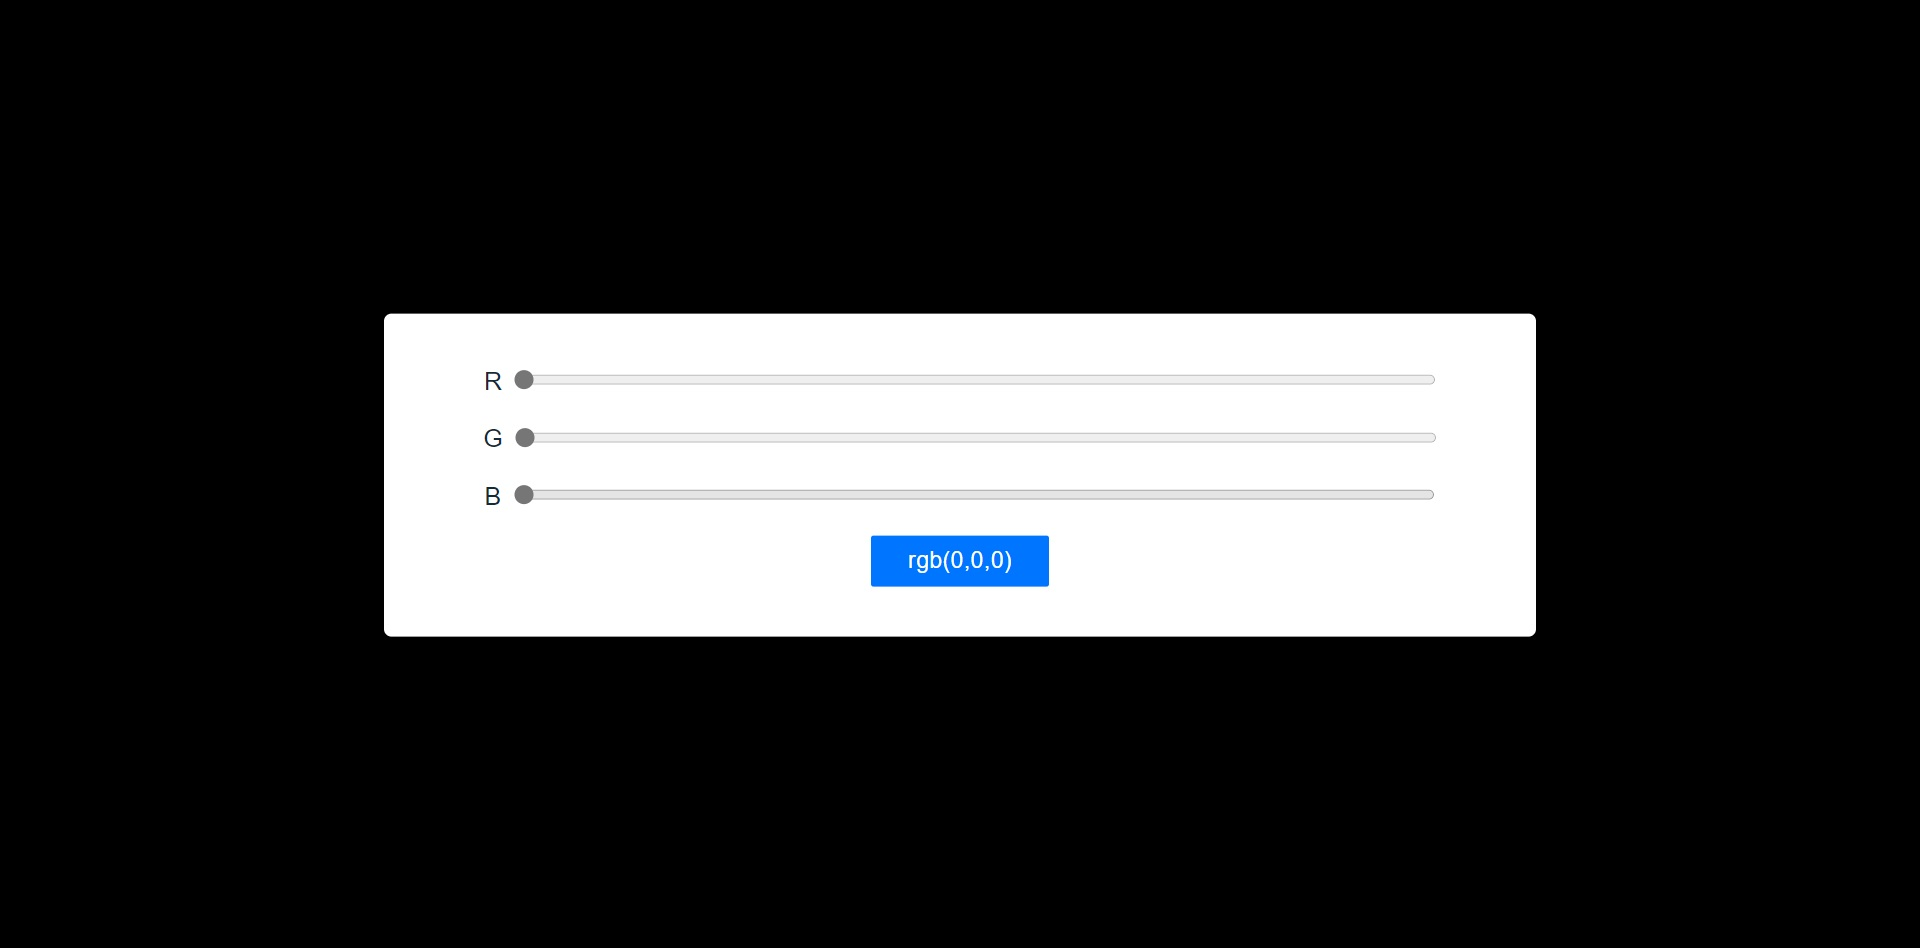
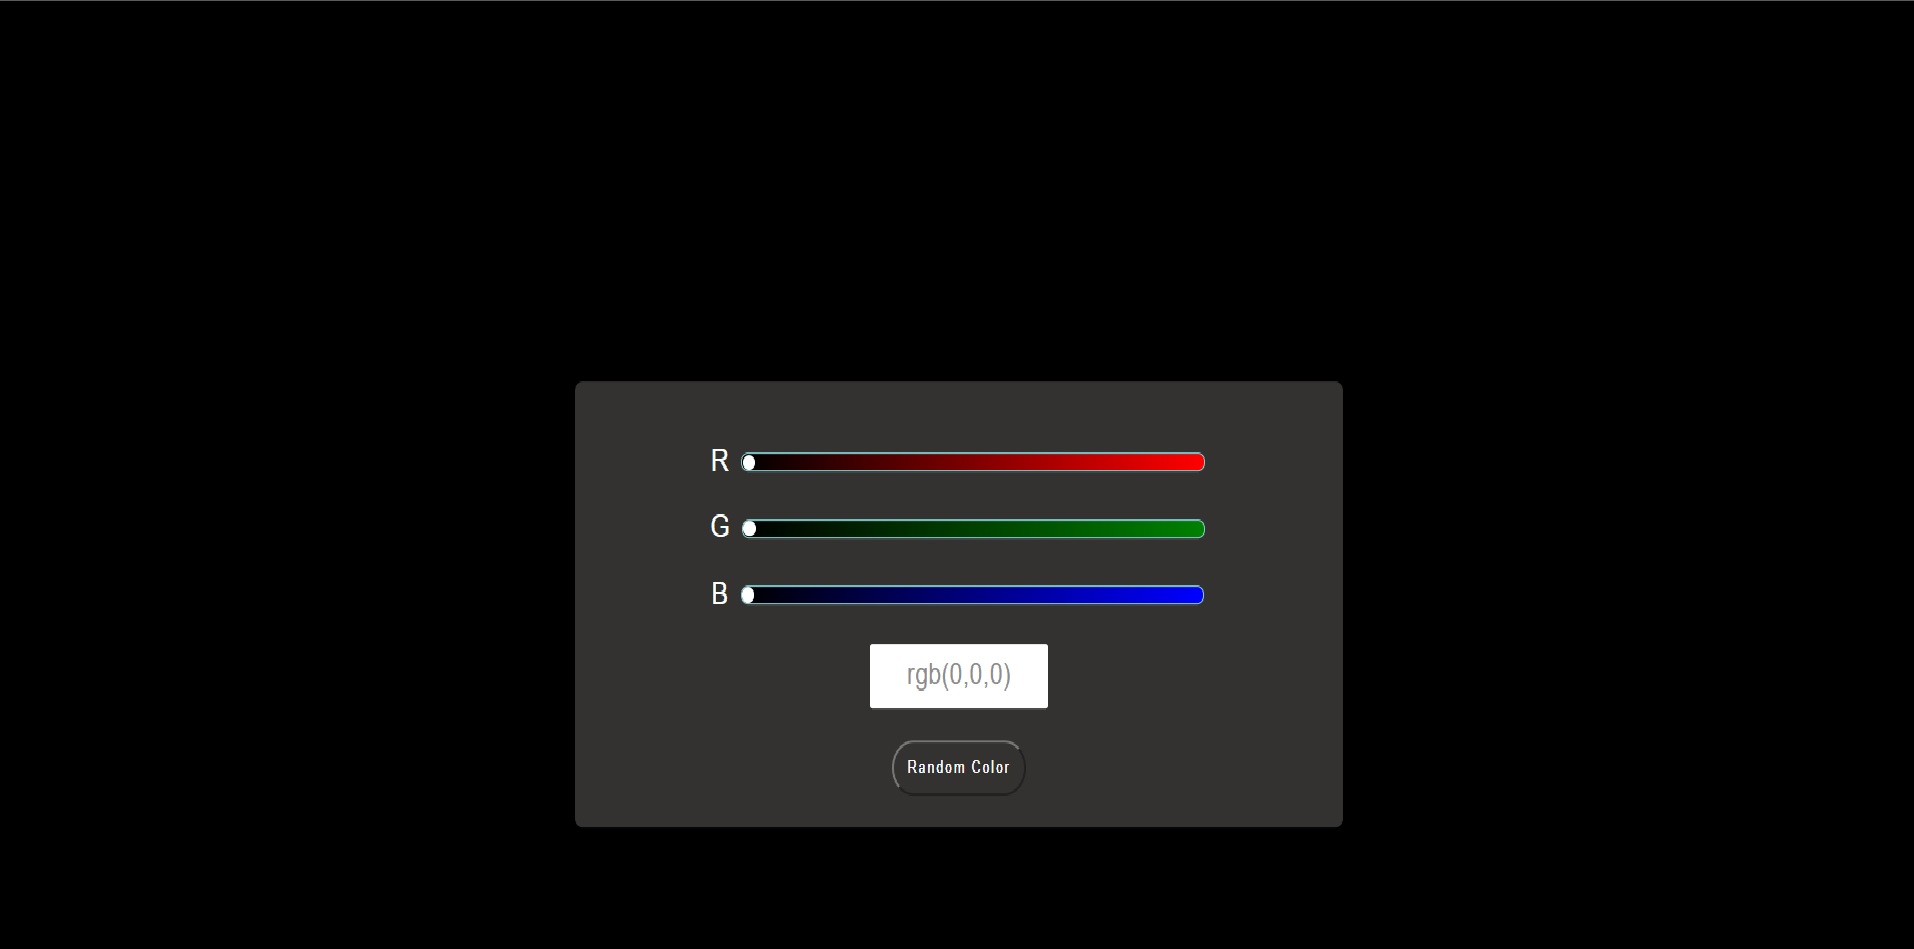
Add new feature

Changed region(s): [[0.185, 0.3059, 0.8015, 0.8871]]

diff --git a/BMI Calculator/BMI.html b/BMI Calculator/BMI.html
@@ -1,0 +1,71 @@
+<!DOCTYPE html>
+<html lang="en">
+<head>
+    <meta charset="UTF-8">
+    <meta http-equiv="X-UA-Compatible" content="IE=edge">
+    <meta name="viewport" content="width=device-width, initial-scale=1.0">
+    <title>Document</title>
+    <link rel="stylesheet" href="BMI.css">
+</head>
+<body>
+    <div class="container">
+        <h2>BMI Calculator</h1>
+        <div class="row">
+            <input type="range" id="weight" min="20" max="200" value="20"
+            oninput="Calculator()">
+            <span id="weight-val">20 kg</span>
+        </div>
+        <div class="row">
+            <input type="range" id="height" min="100" max="250" value="20"
+            oninput="Calculator()">
+            <span id="height-val">100 cm</span>
+        </div>
+        <p id="output">20.0</p>
+        <p id="category">Normal Weight</p>
+    </div>
+
+    <script>
+        var bmi;
+         function Calculator()
+        {
+            var weight = parseInt(document.getElementById("weight").value);
+            var height = parseInt(document.getElementById("height").value);
+            var output = document.getElementById("output");
+           
+            
+            document.getElementById("weight-val").textContent = weight + " kg"
+
+            document.getElementById("height-val").textContent = height + " cm"
+
+            bmi = (weight/Math.pow( (height/100),2) ).toFixed(1);
+
+            output.textContent = bmi;
+            var category = document.getElementById("category");
+            
+            if(bmi<18.5)
+            {
+                category.textContent = "UnderWeight"
+                category.style.color="#26abe3"
+            }
+            else if(bmi >=18.5 && bmi <=24.9)
+            {
+                category.textContent ="Normal Weight"
+                category.style.color="#9eb33a"
+            }
+            else if(bmi>=25 && bmi <=29.9)
+            {
+                category.textContent ="Overweight"
+                category.style.color="#fac90d"
+            }
+            else
+                {
+                category.textContent="Obese"
+                category.style.color="#f38a2f"
+            }
+            
+        }
+
+       
+    </script>
+</body>
+</html>

diff --git a/index.html b/index.html
@@ -74,7 +74,7 @@
             <div class="card border-0">
                 <div class="card-body">
               <a href="calculator/calculator.html"><img src="image/Calculator.jpg" alt="content" class="card-img-top img-fluid"></a>
-                    <a href="https://www.youtube.com/watch?v=GtFg8mJICbY"><p class="card-title">Calculator</p></a> 
+                    <a href="https://www.youtube.com/watch?v=GtFg8mJICbY"><p class="card-title">Simple Calculator</p></a> 
                    
                     <p class="time">Last Update 28/6/2021</p>
                 </div>
@@ -86,6 +86,16 @@
                <a href="RGB Color/rgbcolor.html"><img src="image/RGBColor.jpg" alt="content" class="card-img-top img-fluid"></a>  
                     <a href="https://www.youtube.com/watch?v=h4sIKiyEo6k"><p class="card-title">Explore</p></a> 
                     
+                    <p class="time">Last Update 28/6/2021</p>
+                </div>
+            </div>
+        </div>
+        <div class="col-md-6 col-sm-12 mb-3">
+            <div class="card border-0">
+                <div class="card-body">
+              <a href="BMI Calculator/BMI.html"><img src="image/iStock-881494494.jpg" alt="content" class="card-img-top img-fluid"></a>
+                    <a href="https://www.youtube.com/watch?v=RtbfbldmgSo"><p class="card-title">BMI Calculator</p></a> 
+                   
                     <p class="time">Last Update 28/6/2021</p>
                 </div>
             </div>

diff --git a/BMI Calculator/BMI.css b/BMI Calculator/BMI.css
@@ -1,0 +1,73 @@
+*{
+    margin:0;
+    padding:0;
+    box-sizing: border-box;
+}
+body{
+    background:linear-gradient(to right ,#e7617a,#8838b3);
+    height: 100vh;
+}
+.container{
+    background-color: #ffffff;
+    position: absolute;
+    top:50%;
+    left:50%;
+    transform: translate(-50%,-50%);
+    width: 20%;
+    min-width: 400px;
+    padding: 40px 30px;
+    border-radius: 6px;
+    color:black;
+    font-family:'Poppins',sans-serif;
+    box-shadow: 25px 25px 30px rgba(0, 0, 0, 0.15);
+    border:3px solid #dd9eb9;
+   
+}
+h2{
+    text-align: center;
+    margin-bottom: 20px;
+    letter-spacing: 1px;
+}
+.row{
+    display:flex;
+    justify-content: space-between;
+    align-items: center;
+    margin-bottom: 40px;
+}
+.row span{
+    font-weight: 500;
+}
+input[type="range"]
+{
+   width: 70%;
+   height: 3.5px;
+   -webkit-appearance: none;
+   appearance: none;
+   background-color: #dcdcdc;
+   outline: none;
+   
+}
+input[type="range"]::-webkit-slider-thumb{
+    -webkit-appearance: none;
+    appearance: none;
+    height: 15px;
+    width: 15px;
+    border-radius: 50%;
+    background-color: black;
+    cursor:pointer;
+}
+#output{
+    font-size: 30px;
+    font-weight: 700;
+    letter-spacing: 1px;
+    text-align: center;
+    color:#b3b1c0;
+
+}
+#category{
+    text-align: center;
+    font-size: 18px;
+    letter-spacing: 1px;
+    color:#9eb33a;
+    font-weight: 500;
+}

diff --git a/RGB Color/rgbcolor.html b/RGB Color/rgbcolor.html
@@ -27,7 +27,7 @@
             value="0" oninput="SetColor()">
         </div>
         <span id="output" onclick="Copy()">rgb(0,0,0)</span>
-        
+        <button id="rdcolor" onclick="Random()">Random Color</button>
     </div>
 
     <script>
@@ -63,7 +63,27 @@
             },2000);
 }
 
+    function Random()
+    {
+        
+             
+           
+            
+       var x = Math.round(Math.random()*255);
+       var y = Math.round(Math.random()*255);
+       var z = Math.round(Math.random()*255);
+     document.body.style.backgroundColor = 'rgb('+x+','+y+','+z+')';
+    var output =   document.getElementById("output");
+        output.innerHTML = 'rgb('+x+','+y+','+z+')';
+        output.style.color = 'rgb('+x+','+y+','+z+')';
 
+        document.getElementById("red").value = x;
+
+        document.getElementById("green").value = y;
+
+        document.getElementById("blue").value = z;
+
+    }
     </script>
 </body>
 </html>

diff --git a/RGB Color/rgbcolor.css b/RGB Color/rgbcolor.css
@@ -10,7 +10,7 @@ body{
     top:50%;
     left:50%;
     transform: translate(-50%,-50%);
-    width: 20%;
+    width: 40%;
     padding: 20px 0;
     font-size: 20px;
     font-weight: 500;
@@ -79,6 +79,16 @@ input[type='range']::-webkit-slider-thumb {
     font-size: 18px;
     border-radius: 2px;
     letter-spacing: 0.5px;
+}
+#rdcolor{
+  font-size: 10px;
+  background: transparent;
+  color:white;
+  outline: none;
+  padding: 10px;
+  border-radius: 50px;
+  letter-spacing: 1.5px;
+  font-family: 'Poppins',sans-serif;
 }
 span:hover{
     cursor: pointer;
